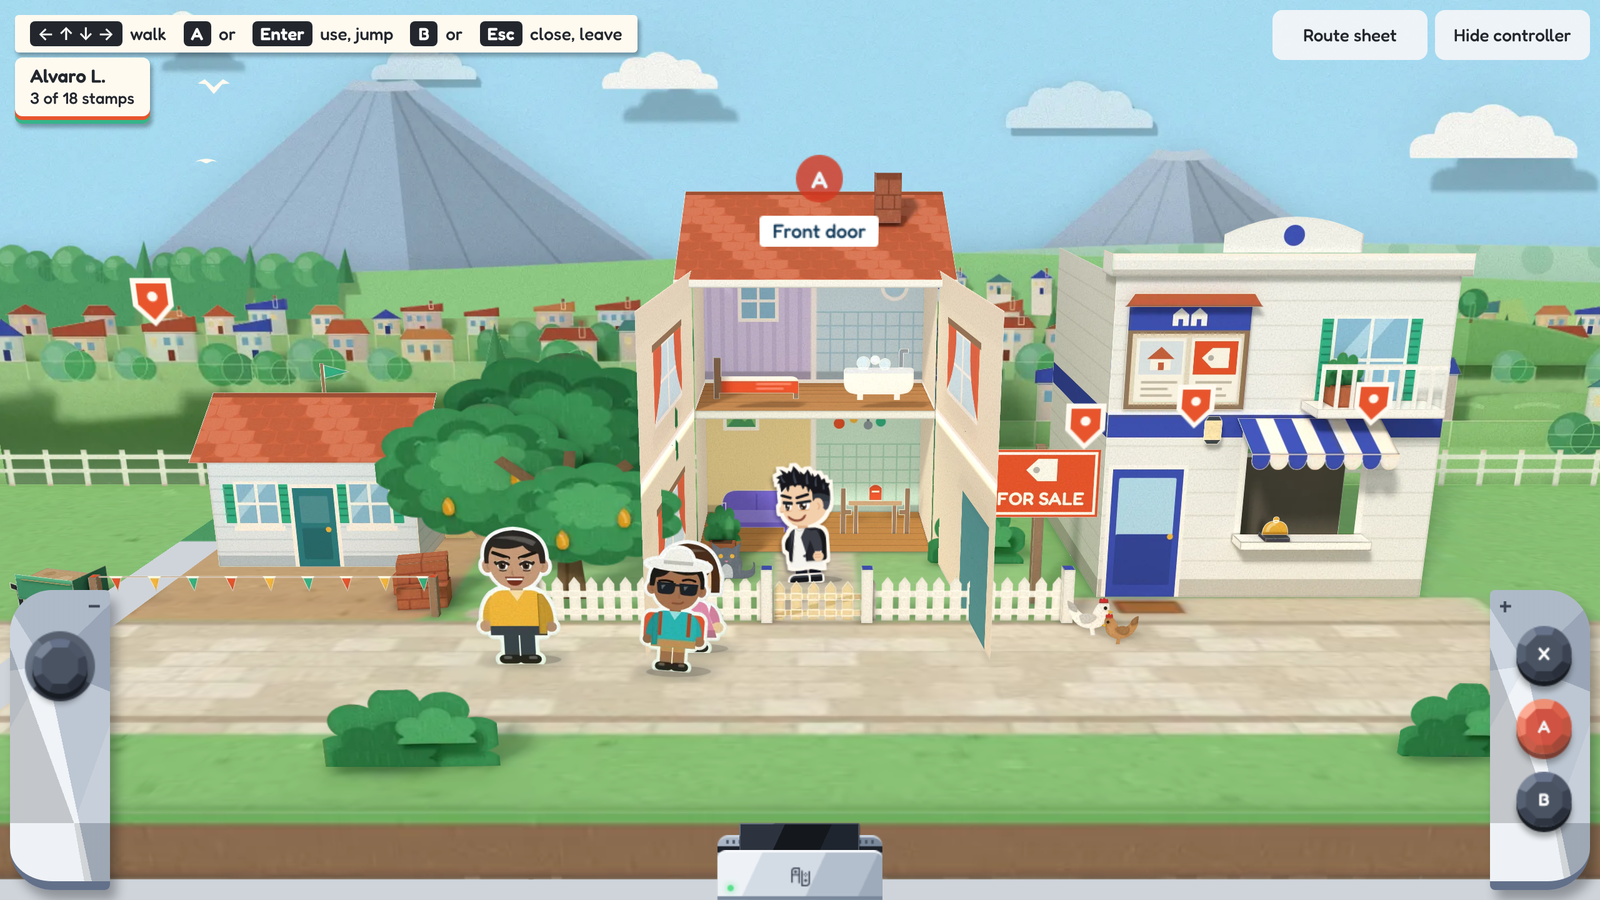
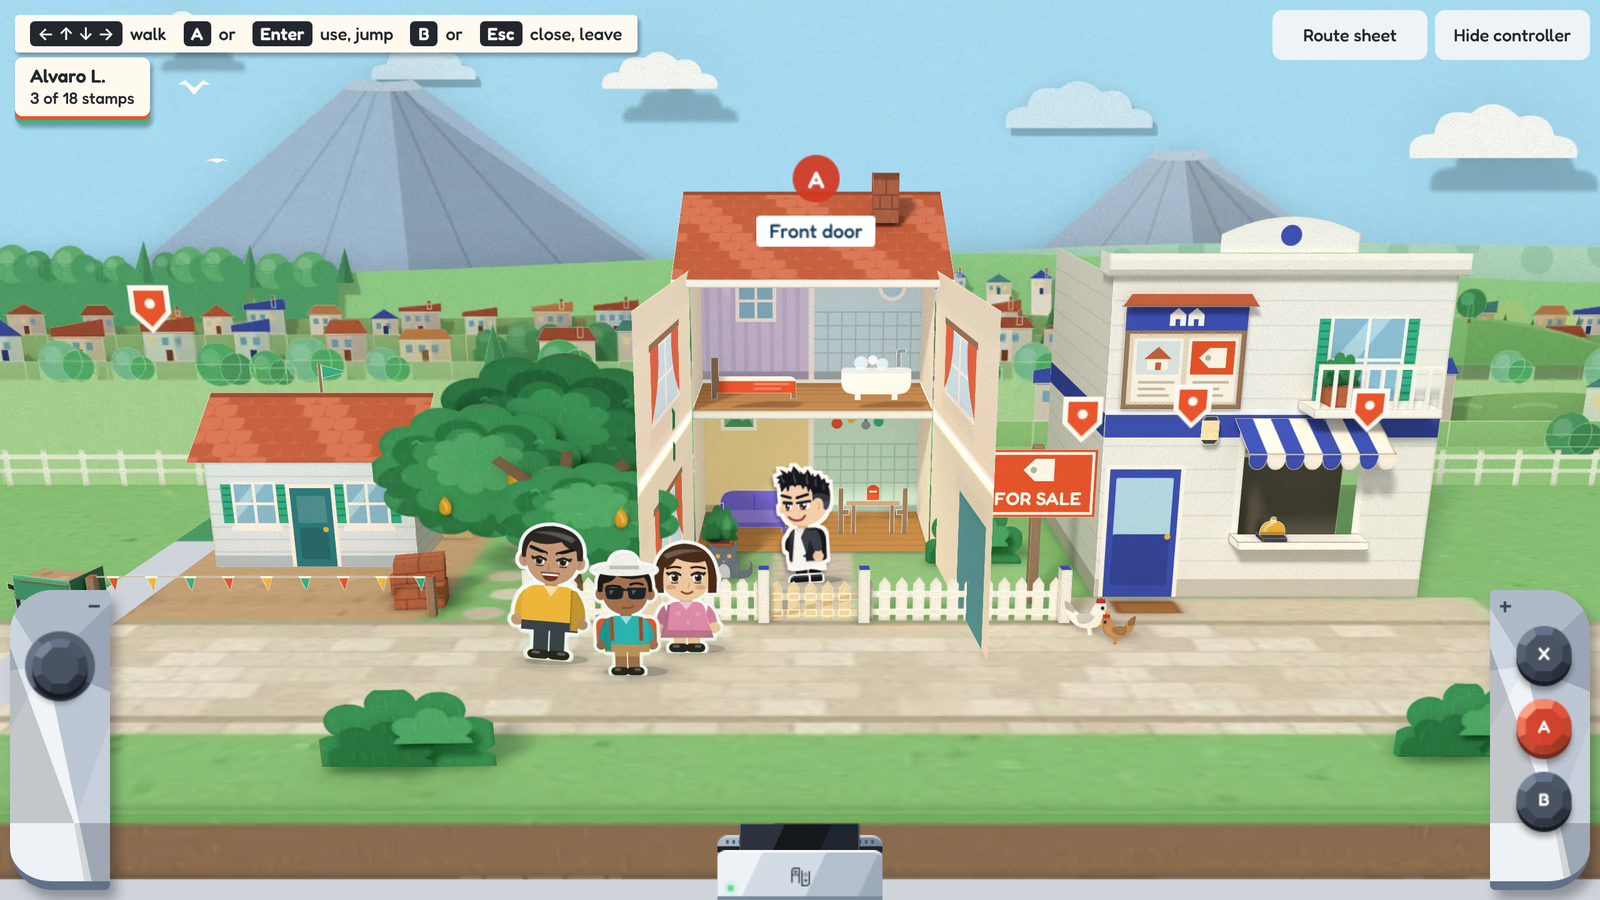
moperty: the valley stays open — view cards are lit evenly, so no house or railing throws a shadow across far land
Also keeps the lane's reference shots and review record current, and lets the
journey suite run chosen checks with ONLY=<pattern>.

Claude-Session: https://claude.ai/code/session_01YPNotNbcSMH7FSyMT85iZK

diff --git a/game/src/art/scenes/laneView.ts b/game/src/art/scenes/laneView.ts
@@ -30,8 +30,9 @@ export function land(): Panel[] {
     `<rect y="${Y(l0)}" width="${W}" height="${l1 - l0}" fill="#d9caae"/>${pave}<rect y="${Y(l0) - 7}" width="${W}" height="9" fill="#bfae90"/><rect y="${Y(l1) - 2}" width="${W}" height="9" fill="#bfae90"/>`;
   const ground: Panel = { id: 'ground', stock: 'sugar', c: GRASS, w: W, h: D, o: [LAND.x0, 0, LAND.z1], u: [1, 0, 0], v: [0, 0, -1], density: .42, edge: 'fold', split: 8, print };
   const skirt: Panel = { id: 'ground-skirt', stock: 'greyboard', c: '#8a6a4c', w: W, h: 50, o: [LAND.x0, -50, LAND.z1 + 1], u: [1, 0, 0], v: [0, 1, 0], density: .6, edge: 'cut', split: 2, print: `<rect width="${W}" height="9" fill="#6fae5c"/>` };
-  // The railing along the ridge's edge, open where the path goes down.
-  const rail = (id: string, x0: number, x1: number): Panel => { const w = x1 - x0; return { id, stock: 'cover', c: PICKET, w, h: 46, o: [x0, 0, LAND.z0 + 6], u: [1, 0, 0], v: [0, 1, 0], density: .9, edge: 'cut', split: 2,
+  // The railing along the ridge's edge, open where the path goes down. It casts no shadow: the card behind it stands
+  // in for land that falls away, and a shadow across it would make it a wall.
+  const rail = (id: string, x0: number, x1: number): Panel => { const w = x1 - x0; return { id, phantom: true, stock: 'cover', c: PICKET, w, h: 46, o: [x0, 0, LAND.z0 + 6], u: [1, 0, 0], v: [0, 1, 0], density: .9, edge: 'cut', split: 2,
     mask: `<rect y="6" width="${w}" height="6" fill="#fff"/><rect y="24" width="${w}" height="5" fill="#fff"/>${Array.from({ length: Math.floor(w / 46) + 1 }, (_, i) => `<rect x="${Math.min(i * 46, w - 7)}" width="7" height="46" fill="#fff"/>`).join('')}` }; };
   return [ground, skirt, rail('rail-l', LAND.x0, LAND.path[0] - 6), rail('rail-r', LAND.path[1] + 6, LAND.x1)];
 }
@@ -80,7 +81,7 @@ export function view(): Panel[] {
   // Near card, standing below the ridge: only what rises above its edge shows.
   { const W = NEAR.w, H = 300;
     const hill = roll(W, H, 150, 16, 210, .4);
-    out.push({ id: NEAR.id, stock: 'sugar', c: '#9ed084', w: W, h: H, o: [NEAR.x0, NEAR.y0, NEAR.z], u: [1, 0, 0], v: [0, 1, 0], edge: 'cut', density: NEAR.density, split: 2, mask: `<path d="${hill}" fill="#fff"/>`,
+    out.push({ id: NEAR.id, open: true, stock: 'sugar', c: '#9ed084', w: W, h: H, o: [NEAR.x0, NEAR.y0, NEAR.z], u: [1, 0, 0], v: [0, 1, 0], edge: 'cut', density: NEAR.density, split: 2, mask: `<path d="${hill}" fill="#fff"/>`,
       print: Array.from({ length: 36 }, (_, i) => `<path d="M${i * 100 + 20} ${H - 150}q30 -10 60 0" stroke="#b6de9c" stroke-width="5" fill="none"/>`).join('') });
     const roofs = homes(W, H, 132, 1.25, [70, 240], '#9ed084', { 3: '#f6b73c', 9: INDIGO, 14: '#f6b73c' });
     out.push(layer(NEAR, 'view-roofs', 34, H, '#fff4e2', roofs.m, roofs.p));
@@ -101,7 +102,7 @@ export function view(): Panel[] {
   { const W = TOWN.w, H = 420;
     let paddies = '';
     for (let x = 0; x < W; x += r(150, 280)) { const pw = r(110, 220), py = H - r(190, 250), c = pick(['#b9d98a', '#cfe39a', '#a5cc7a', '#d9e8a6']); paddies += `<path d="M${f(x)} ${f(py)}l${f(pw)} -8l22 44l${f(-pw - 10)} 10Z" fill="${c}"/>${Array.from({ length: 5 }, (_, i) => `<path d="M${f(x + 4)} ${f(py + 6 + i * 8)}l${f(pw + 8)} -8" stroke="${tone(c, -.12)}" stroke-width="2"/>`).join('')}`; }
-    out.push({ id: TOWN.id, stock: 'sugar', c: '#a9d58c', w: W, h: H, o: [TOWN.x0, TOWN.y0, TOWN.z], u: [1, 0, 0], v: [0, 1, 0], edge: 'cut', density: TOWN.density, split: 2, mask: `<path d="${roll(W, H, 262, 12, 330, 1.2)}" fill="#fff"/>`, print: paddies });
+    out.push({ id: TOWN.id, open: true, stock: 'sugar', c: '#a9d58c', w: W, h: H, o: [TOWN.x0, TOWN.y0, TOWN.z], u: [1, 0, 0], v: [0, 1, 0], edge: 'cut', density: TOWN.density, split: 2, mask: `<path d="${roll(W, H, 262, 12, 330, 1.2)}" fill="#fff"/>`, print: paddies });
     const far = homes(W, H, 236, .7, [4, 60], '#a9d58c'); out.push(layer(TOWN, 'town-far', 26, H, '#fff4e2', far.m, far.p));
     const line = crowns(W, H, 214, 16, 28, [34, 70], [['#5aab70', '#4f9e66'], ['#74bb80', '#5aab70']], 1700, W); out.push(layer(TOWN, 'town-trees', 52, H, '#5aab70', line.m, line.p));
     const mid = homes(W, H, 196, .95, [10, 130], '#b6de9c', { 6: '#f6b73c', 17: INDIGO }); out.push(layer(TOWN, 'town-mid', 78, H, '#fff4e2', mid.m, mid.p));

diff --git a/game/tools/paper/build.ts b/game/tools/paper/build.ts
@@ -73,7 +73,7 @@ async function build(scene: Scene, samples: number) {
   await browser.close();
   const layout = {
     id: scene.id, atlas: { w: ATLAS_W, h: height }, sunToLight: SUN_TO_LIGHT, samples, light: scene.light, lamps: scene.lamps ?? [], camera: scene.camera, runs: scene.runs ?? [],
-    panels: slots.map(({ panel: p, x, y, pw, ph }) => ({ id: p.id, stock: p.stock, transl: STOCK[p.stock].transl, emit: p.emit ?? 0, c: p.c, solid: !p.mask, o: p.o, u: p.u, v: p.v, w: p.w, h: p.h, ghost: !!p.ghost, backdrop: !!p.backdrop, decal: p.decal ?? null, view: !!p.view, motion: p.motion ?? null, group: p.group ?? null, show: p.show ?? null, phantom: !!p.phantom, actor: p.actor ?? null, keep: !!p.keep, split: p.split ?? 1, x, y, pw, ph, n: normal(p) }))
+    panels: slots.map(({ panel: p, x, y, pw, ph }) => ({ id: p.id, stock: p.stock, transl: STOCK[p.stock].transl, emit: p.emit ?? 0, c: p.c, solid: !p.mask, o: p.o, u: p.u, v: p.v, w: p.w, h: p.h, ghost: !!p.ghost, backdrop: !!p.backdrop, open: !!p.open, decal: p.decal ?? null, view: !!p.view, motion: p.motion ?? null, group: p.group ?? null, show: p.show ?? null, phantom: !!p.phantom, actor: p.actor ?? null, keep: !!p.keep, split: p.split ?? 1, x, y, pw, ph, n: normal(p) }))
   };
   writeFileSync(join(WORK, 'layout.json'), JSON.stringify(layout));
   if (PREVIEW) execFileSync('python3', ['-c', `import numpy as n;n.save(${JSON.stringify(join(WORK, 'light.npy'))},n.full((${Math.round(height / 2)},${ATLAS_W / 2},3),.82,dtype=n.float32))`]);

diff --git a/game/src/art/kit.ts b/game/src/art/kit.ts
@@ -4,6 +4,10 @@ export type Panel = {
   id: string; stock: Stock; c: string; o: V3; u: V3; v: V3; w: number; h: number;
   mask?: string; print?: string; edge?: 'cut' | 'fold'; ghost?: boolean; density?: number; decal?: string;
   emit?: number; motion?: Motion; group?: string; backdrop?: boolean; show?: Show;
+  // A card of an open view that stands in the scene to keep its parallax. Like the far backdrop it is lit evenly and
+  // nothing near can shade it (a house's shadow across it would turn far land into a wall); its own layers still shade
+  // one another.
+  open?: boolean;
   // Lit like everything else but casting no shadow: for a sheet whose pose changes so much (a wall that folds up
   // from flat) that a shadow baked at one pose would be wrong at the other.
   phantom?: boolean;

diff --git a/game/tools/paper/finish.py b/game/tools/paper/finish.py
@@ -40,7 +40,7 @@ for p in L["panels"]:
     if not m.any():
         continue
     part = light[y:y + h, x:x + w]
-    far = p["backdrop"] or (p["decal"] and BY_ID[p["decal"]]["backdrop"])
+    far = p["backdrop"] or p.get("open") or (p["decal"] and (BY_ID[p["decal"]]["backdrop"] or BY_ID[p["decal"]].get("open")))
     if far:
         # The open view is far off: nothing in the near scene can shade it, so it takes the sky's unshaded light.
         lit = part[m > 0.5]
@@ -80,7 +80,7 @@ def flatten(d):
     colour = np.dstack([ndimage.map_coordinates(lin[..., c], coords, order=1) for c in range(3)])
     y, x = base["y"], base["x"]
     region = lin[y:y + base["ph"], x:x + base["pw"]]
-    if base["backdrop"]:
+    if base["backdrop"] or base.get("open"):
         region *= far_shade(d, base, world, n, dn, do, du, dv, over)[..., None]
     region[:] = region * (1 - over[..., None]) + colour * over[..., None]
     held = a[y:y + base["ph"], x:x + base["pw"]]

diff --git a/game/tools/paper/bake.py b/game/tools/paper/bake.py
@@ -158,7 +158,7 @@ def build(name, panels, phantom):
 # The far backdrop and its layers are the same: they stand in for things far away, so they never shade the scene
 # (finish.py lights them evenly and works out the shadows they throw on each other itself).
 BY_ID = {p["id"]: p for p in L["panels"]}
-far = lambda p: bool(p.get("backdrop") or (p.get("decal") and BY_ID[p["decal"]].get("backdrop")))
+far = lambda p: bool(p.get("backdrop") or p.get("open") or (p.get("decal") and (BY_ID[p["decal"]].get("backdrop") or BY_ID[p["decal"]].get("open"))))
 is_phantom = lambda p: bool(p.get("show") or p.get("group") or p.get("phantom") or p.get("actor") or far(p))
 solid_panels = [p for p in L["panels"] if not is_phantom(p)]
 phantom_panels = [p for p in L["panels"] if is_phantom(p)]

diff --git a/game/docs/MOPERTY_DESIGN.md b/game/docs/MOPERTY_DESIGN.md
@@ -314,18 +314,18 @@ Checked on screenshots of the baked scene at 1280 by 720, 1720 by 720 and 412 by
 |---|---|
 | 1. One coherent place | One theme: a hometown lane on a rise. Every object is listed in step 4 with its reason. Day scene. The homes are whole: four walls, floors, a roof. Its plan is shared with no other scene |
 | 2. Technique by zone | Main space: folded buildings, the pop-up, tree, hens, barrow, bricks. Open view: flat layers on two cards and a far backdrop. Relief only on the two buildings, the lane being enclosed on no side. The ground is level; a raised yard was left out to keep the walk simple |
-| 3. The open view | Fourteen layers of different kinds, each with its own detail; houses differ in roof, wall, chimney and windows; the far signs repeat the tag and the key. The path's stones lead to the gap in the railing and the road goes on below it, though from most of the lane the tree or a roof hides the road: the weakest point of the view |
+| 3. The open view | Fourteen layers of different kinds, each with its own detail; houses differ in roof, wall, chimney and windows; the far signs repeat the tag and the key. The path's stones lead to the gap in the railing and the road goes on below it, seen from the lane's left half; from the right the tree and the house hide it |
 | 4. Freestanding objects | Folded bodies with glued pieces; the hens and barrow turned to the camera; the tree is a forked trunk with clusters at three depths and fruit glued on. Flat only where allowed: signs, fence, railing, people, the cat on the fence, the furniture, which is stand-up card on purpose |
 | 5. Placement | Three groups (plot, yard, office) with clear lane between them. He stands beside every toy; no visitor's place is in front of one. One of each sign |
 | 6. Characters | Three visitors in three builds and three faces; the agent stands on a step so his head and shoulders clear the sill |
 | 7. Telling the project | No paragraph, screenshot or tech. Six verbs for six stops. The mark appears once |
 | 8. Paper look | Baked light and shadow from the one sun; cut edges and grain from the stocks. The rooms and the leaves' insides carry their own light, since a doll's house is looked into |
 
-Found on the way and fixed: the tree hid the office door (moved to the yard's left, the board to its right); back-to-back sheets on one plane baked black (set apart); the rooms were dark behind their own roof (they carry light); the visitors were baked under the tree and came out dim (they are baked on the open verge); a tap on a far stop could walk him into the open gate (taps keep to the lane); focus on a stop off screen could scroll the whole view sideways (the view no longer scrolls).
+Found on the way and fixed: the tree hid the office door (moved to the yard's left, the board to its right); back-to-back sheets on one plane baked black (set apart); the rooms were dark behind their own roof (they carry light); the visitors were baked under the tree and came out dim (they are baked on the open verge); a tap on a far stop could walk him into the open gate (taps keep to the lane); focus on a stop off screen could scroll the whole view sideways (the view no longer scrolls); the house and the railing threw their shadows on the cards of the view, which made far land read as a wall (a card of an open view is now lit evenly, as the far backdrop is, and only its own layers shade one another: `open` in `kit.ts`).
 
 Measured in a cloud container with software rendering, walking with all three visitors out: the lane runs at 27 to 42 frames a second where the promenade runs at 22 to 33. It uses 177 quads of its budget of 190.
 
-**Phase 3 is ready**, with two things left open on purpose: the road below the ridge could be made easier to see, and the frame rate has not been measured on a phone.
+**Phase 3 is ready.** Left open on purpose: the frame rate has not been measured on a phone.
 
 ![The plot built, the sign up, visitors in the lane](spaces/lane-plot.png)
 

diff --git a/game/docs/ART_BIBLE.md b/game/docs/ART_BIBLE.md
@@ -274,6 +274,7 @@ Three blind playtests (a fresh player given only the address) set these rules; t
 
 `scenes/lane.ts` and `scenes/laneView.ts`. Its design, from the rules to the paper, is recorded in [MOPERTY_DESIGN.md](MOPERTY_DESIGN.md); this is what the art has to keep.
 
+- **Its view cards are `open`.** The two cards of the town stand in the scene to keep their parallax, but are lit evenly like the far backdrop, so no house throws its shadow across the valley.
 - **A ridge-top lane.** The lane runs along the top of a rise, so the whole back of the scene is open view and the homes stand free against it. It is closed on no side. No other space may be laid out this way.
 - **Nothing is read here.** Every stop is a toy with its own verb, and what one toy does the rest of the lane notices: the visitors, the hens, the cat, the cards on the office's board.
 - **The pop-up house** is the scene's signature. Its inside is plain bond with the plan in pencil; its outside is printed. It lies flat as the plan, the front folds up, the back and sides come up through slots, the roof is put on. Sheets that change pose like this are `phantom`: lit, but casting no baked shadow.
